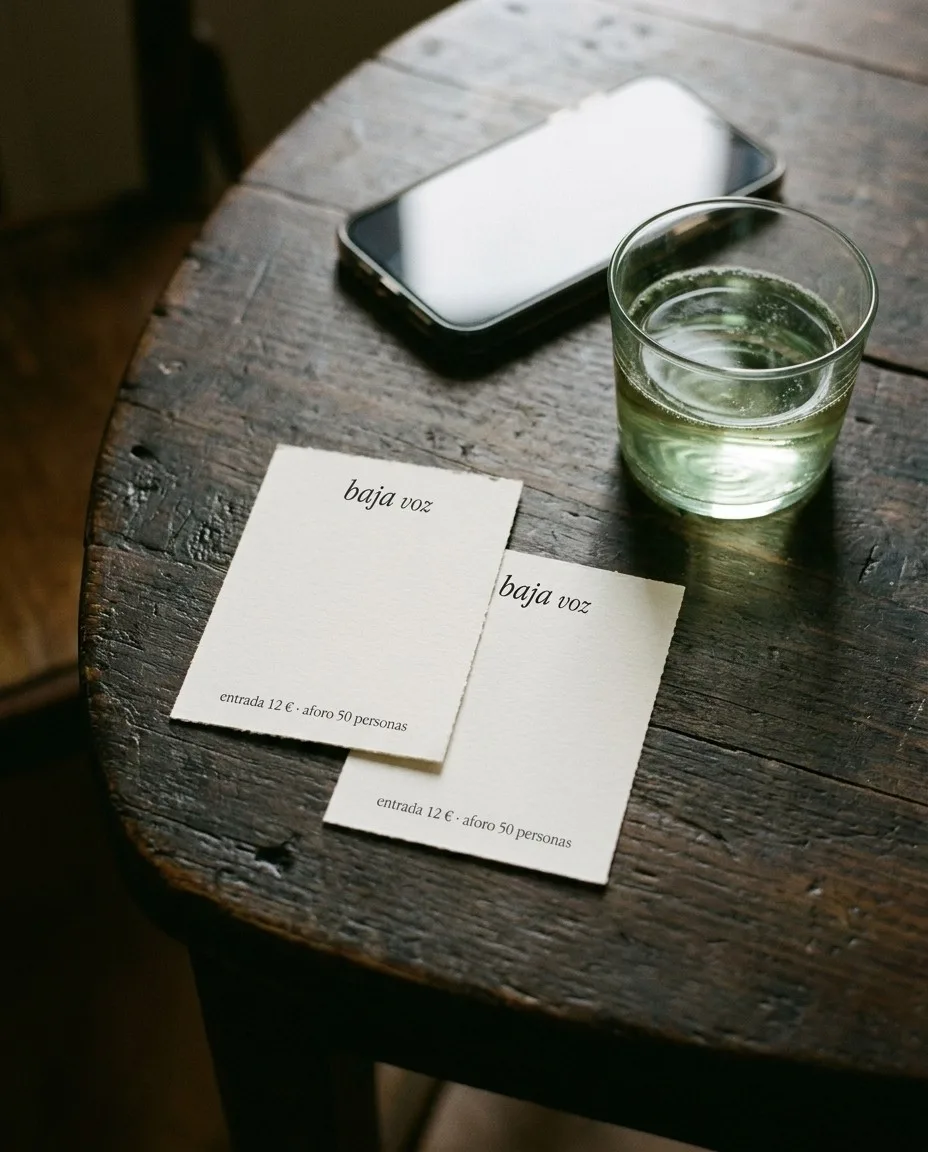
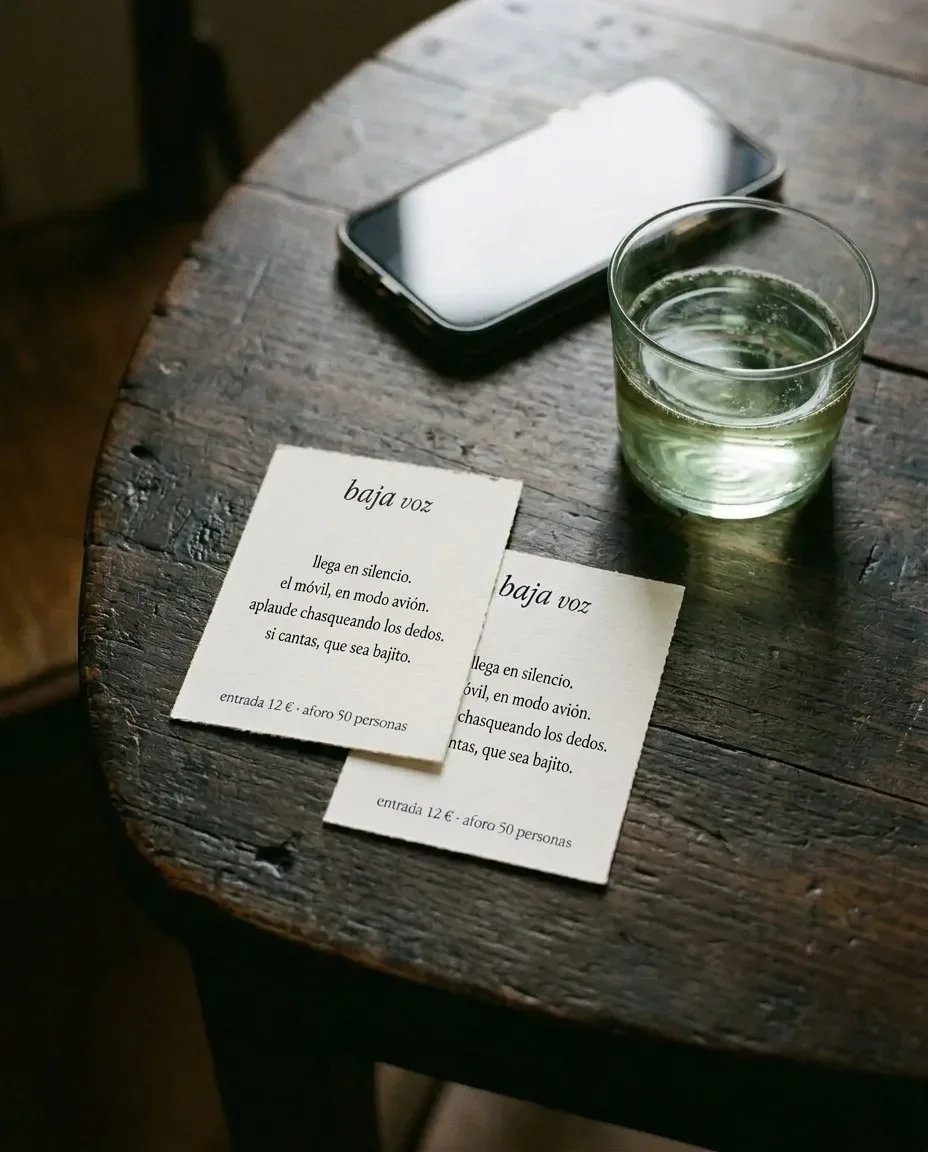
ENTRE: cambios de Rebe (claim de Merengue, resultado, sabores, bio) y fotos corregidas

Changed region(s): [[0.2812, 0.4688, 0.4688, 0.5938], [0.5, 0.5625, 0.6562, 0.6875]]

diff --git a/js/proyectos.js b/js/proyectos.js
@@ -93,9 +93,9 @@ const TODOS_LOS_PROYECTOS = [
       ],
     },
     partida: "Una marca madrileña de bálsamos labiales que quiere lanzarse en un mercado lleno de marcas que se parecen entre sí: tonos nude, frascos minimalistas y el mismo mensaje.",
-    idea: "Dulces de toda la vida, para los labios. Sabores de pastelería castiza (violeta, rosquilla de Santa Clara y bartolillo) y un universo que mezcla cosmética y pastelería de barrio.",
-    desarrollo: "Naming de la gama y una web que se recorre como el mostrador de una pastelería, con el papel y los cordeles de toda la vida. Para el lanzamiento, un plan de prensa e influencers con una caja PR con forma de caja de pasteles, y un pop-up de fin de semana en una pastelería de toda la vida para que la gente los pruebe.",
-    resultado: "Una marca que no se explica con ingredientes, sino con recuerdos: el bolso de la abuela y la bandeja de los domingos.",
+    idea: "A nadie le amarga un dulce. Dulces de toda la vida, para los labios: sabores de pastelería castiza (violeta, rosquilla de Santa Clara y bartolillo) y un universo que mezcla cosmética y pastelería de barrio.",
+    desarrollo: "Naming de la gama y una web que se recorre como el mostrador de una pastelería, con el papel y los cordeles de toda la vida. Para el lanzamiento, un plan de prensa e influencers con una caja PR con forma de caja de pasteles, y un pop-up de fin de semana en una pastelería de toda la vida para que la gente los pruebe. Cada sabor tiene su frase: Violeta de Domingo, «Dulce, discreta y muy de Madrid»; Santa Clara, «El glaseado más fino de Madrid»; y Bartolillo, «Lo juramos, está cremita».",
+    resultado: "Una marca que no se explica con ingredientes, sino con antojos: a nadie le amarga un dulce, y menos si se lleva puesto.",
     maqueta: "cartel", fondo: "crema", layout: "vertical",
     imagen: "img/proyectos/merengue-portada.webp",        // los tres bálsamos en el mostrador
     alt: "Los tres bálsamos Merengue, lila, glaseado y amarillo, con tapa de merengue, sobre una blonda en una pastelería",
@@ -139,10 +139,10 @@ const TODOS_LOS_PROYECTOS = [
     fotoIdea: { imagen: "img/proyectos/bajavoz-patio.webp", alt: "Concierto acústico en un patio interior de Bilbao, con el público sentado en silencio alrededor de un dúo de voz y guitarra" }, // a todo el ancho, tras La idea
     galeria: [                                            // las piezas
       { imagen: "img/proyectos/bajavoz-portada.webp", alt: "Cartel casi vacío de baja voz en un muro de piedra del Casco Viejo de Bilbao, con la frase «shhh. ya está aquí.»" },
-      { imagen: "img/proyectos/bajavoz-entradas.webp", alt: "Dos entradas de baja voz sobre una mesa de madera, junto a un móvil y un vaso de txakoli" },
+      { imagen: "img/proyectos/bajavoz-entradas.webp", alt: "Dos entradas de baja voz con sus normas («llega en silencio. el móvil, en modo avión…») sobre una mesa de madera, junto a un vaso de txakoli" },
       { imagen: "img/proyectos/bajavoz-senal.webp", alt: "Señal de baja voz en el portal de un edificio antiguo: «el concierto es aquí. baja la voz.»" },
     ],
-    fotoCierre: { imagen: "img/proyectos/bajavoz-cierre.webp", alt: "El patio vacío después del concierto, con las sillas plegables, la alfombra y las luces todavía encendidas" }, // a todo el ancho, antes del resultado
+    fotoCierre: { imagen: "img/proyectos/bajavoz-cierre.webp", alt: "El mismo patio, ya vacío y de noche: sillas plegables, la alfombra, una funda de guitarra y las luces todavía encendidas" }, // a todo el ancho, antes del resultado
   },
   {
     id: "pinturas-tirso",

diff --git a/merengue/index.html b/merengue/index.html
@@ -27,9 +27,9 @@
     <section class="portada">
       <p class="portada__ante">Bálsamo labial · Hecho en Madrid</p>
       <h1 class="portada__titulo">                                             <!-- el claim, en la voz del logo -->
-        <span class="linea"><span>Los labios</span></span>
-        <span class="linea"><span>también merecen</span></span>
-        <span class="linea"><span><em id="postre">postre.</em></span></span>  <!-- "postre" cambia de color con cada sabor -->
+        <span class="linea"><span>A nadie</span></span>
+        <span class="linea"><span>le amarga un</span></span>
+        <span class="linea"><span><em id="postre">dulce.</em></span></span>  <!-- "dulce" cambia de color con cada sabor -->
       </h1>
       <div class="sello" aria-hidden="true">                                   <!-- sello de pastelería que gira -->
         <svg viewBox="0 0 200 200"><defs><path id="circulo" d="M100,100 m-74,0 a74,74 0 1,1 148,0 a74,74 0 1,1 -148,0"/></defs>
@@ -134,7 +134,7 @@
     <div class="feston feston--abajo" style="--arriba: var(--violeta)"></div>
     <span class="logo pie__logo" role="img" aria-label="Merengue"></span>      <!-- el logo a todo el ancho -->
     <div class="pie__fila">
-      <p>Los labios también merecen postre.</p>
+      <p>A nadie le amarga un dulce.</p>
       <p>Violeta de Domingo · Santa Clara · Bartolillo</p>
       <p>Diseño y web: <a href="../" target="_top">ENTRE</a></p>
     </div>

diff --git a/index.html b/index.html
@@ -231,7 +231,7 @@
           </div>
           <h3 class="persona__nombre"><span class="bolita"></span>Rebeca González</h3> <!-- la bolita azul es "su" círculo del logo -->
           <p class="persona__rol etiqueta">Estrategia y marca</p>
-          <p class="persona__bio">Publicista y Brand Strategist, especializada en Branding. Ha pasado por McCann, Wk Communication y ASG, donde pasó cinco años llevando la marca de festivales, eventos deportivos y marcas. Su especialidad es encontrar el camino que nadie había mirado y que funciona para ti. En ENTRE encuentra lo que hace única a tu marca y te ayuda a contarlo, del primer mensaje al último post.</p>
+          <p class="persona__bio">Publicista y Brand Strategist, especializada en Branding. Ha pasado por McCann, Wk Communication y ASG, donde estuvo cinco años llevando la marca de festivales, eventos deportivos y marcas. Su especialidad es encontrar el camino que nadie había mirado y que funciona para ti. En ENTRE encuentra lo que hace única a tu marca y te ayuda a contarlo, del primer mensaje al último post.</p>
         </article>
 
         <div class="equipo__union" aria-hidden="true">                            <!-- en medio: el logo, lo que las une -->

diff --git a/merengue/app.js b/merengue/app.js
@@ -9,7 +9,7 @@ document.querySelectorAll(".foto img").forEach((img) => {
   img.addEventListener("error", marcar);                                   // o falla ahora
 });
 
-// 2. "postre." va cambiando de sabor: violeta, glaseado y crema
+// 2. "dulce." va cambiando de sabor: violeta, glaseado y crema
 const postre = document.getElementById("postre");                         // la palabra
 const colores = ["#F2C35B", "#D8C8EC", "#F6EFE4"];                         // crema, violeta suave y glaseado
 let turno = 0;                                                             // cuál toca
